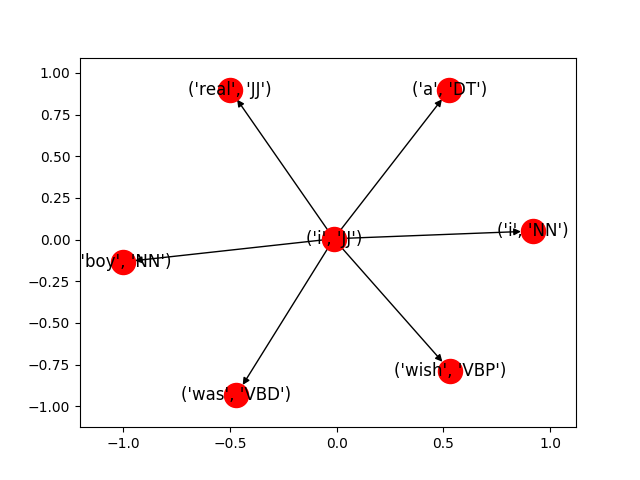
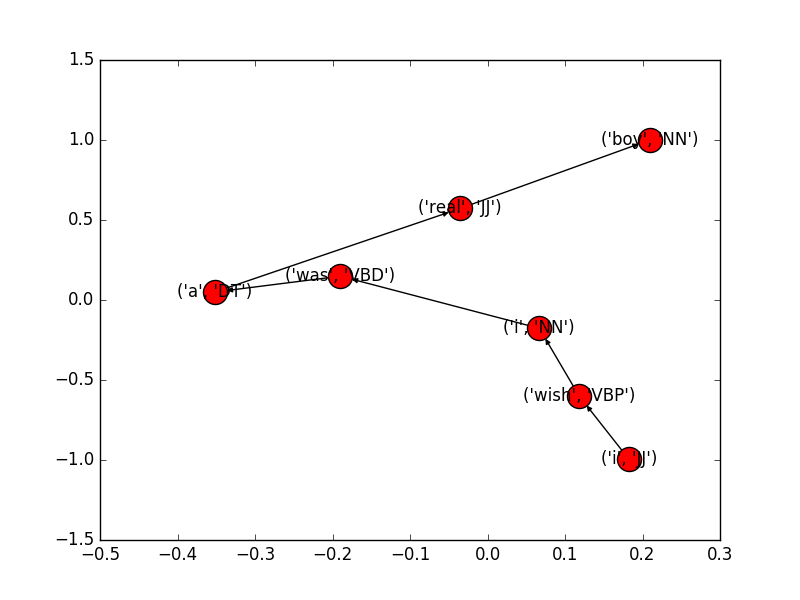
Debugging TextPOS?

diff --git a/TextPOS.py b/TextPOS.py
@@ -10,13 +10,17 @@ import scipy.spatial as ss
 class TextPOS(GraphGenerator):
     def generate_graph(self):
         tagged = nltk.pos_tag(self.tokens)
-        relationship = set(['VERB', 'CONJ', 'ADP']) #ADP is 'adposition'
-        node_names = set([word[0] for word in tagged if (word[1] != 'DET' and word[1] != '.' and word[1] not in relationship)])  #Discard determiners/connectors
-        G = nx.Graph()
-        for node in node_names: G.add_node(node)
+        relationship = set(['VB', 'VBD', 'VBN', 'VBP', 'VBZ', 'IN', 'CC']) #ADP is 'adposition'
+	determiner = set(['WDT', 'DT', 'PDT'])
+        names_list = [word[0] for word in tagged if (word[1] not in determiner and word[1] != '.' and word[1] not in relationship)]  #Discard determiners/connectors
+        node_names = set(names_list)
+	G = nx.Graph()
+        print(names_list)
+	print(tagged)
+	for node in node_names: G.add_node(node)
 
-        start_node = tagged[0]
-        start_sentence = False
+        start_node = None
+        start_sentence = True
         for word_i in tagged[1:]:
             if start_sentence:
                 if word_i[0] in node_names:
@@ -25,14 +29,13 @@ class TextPOS(GraphGenerator):
                     continue
                 else:
                     continue
-            if word_i[1] in relationship or word_i[1] == 'DET':
+            if word_i[1] in relationship or word_i[1] in determiner:
                 continue
             if word_i[1] == '.':
                 start_sentence = True
                 continue
             G.add_edge(start_node[0], word_i[0])
             start_node  = word_i
-        print(G)
         return G
 
 if __name__=="__main__":
